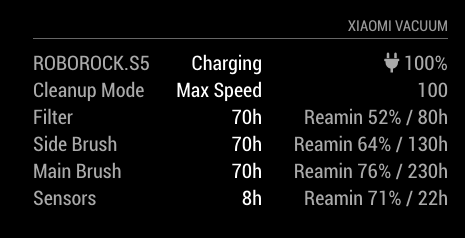
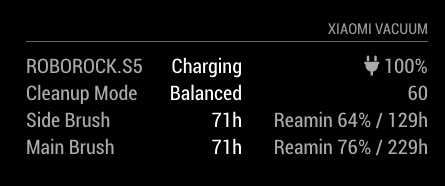
John

diff --git a/node_helper.js b/node_helper.js
@@ -7,7 +7,8 @@
 
 
 const NodeHelper = require('node_helper');
-const miio = require('miio');
+const path       = require('path');
+const miio = require('./node_modules/miio');
 
 const REQUIRED_FIELDS = ['token', 'ipAddress'];
 
@@ -88,10 +89,10 @@ module.exports = NodeHelper.create({
                     batteryPercent: device.property('batteryLevel'),
                     phase: device.property('state'),
                     fanspeed: device.property('fanSpeed'),
-                    filterworktime: device.property('filterWorkTime'),
+                    // filterworktime: device.property('filterWorkTime'),
                     sidebrush: device.property('sideBrushWorkTime'),
                     mainBrush: device.property('mainBrushWorkTime'),
-                    sensordirtytime: device.property('sensorDirtyTime')
+                    // sensordirtytime: device.property('sensorDirtyTime')
                 });
 
                 device.destroy();

diff --git a/MMM-XiaomiVacuum.js b/MMM-XiaomiVacuum.js
@@ -75,18 +75,18 @@ Module.register('MMM-XiaomiVacuum', {
 			<tr>
 				${self.RenderFanspeed()}
 			</tr>
-			<tr>
+		<!-- <tr>
 				${self.RenderFilterWorkTime()}
-			</tr>
+			</tr> -->
       <tr>
 				${self.RenderSideBrushWorkTime()}
 			</tr>
 			<tr>
 				${self.RendermainBrushWorkTime()}
 			</tr>
-			<tr>
+		<!-- <tr>
 				${self.RendersensorDirtyTime()}
-			</tr>
+			</tr> -->
 		`;
 
         return wrapper;
